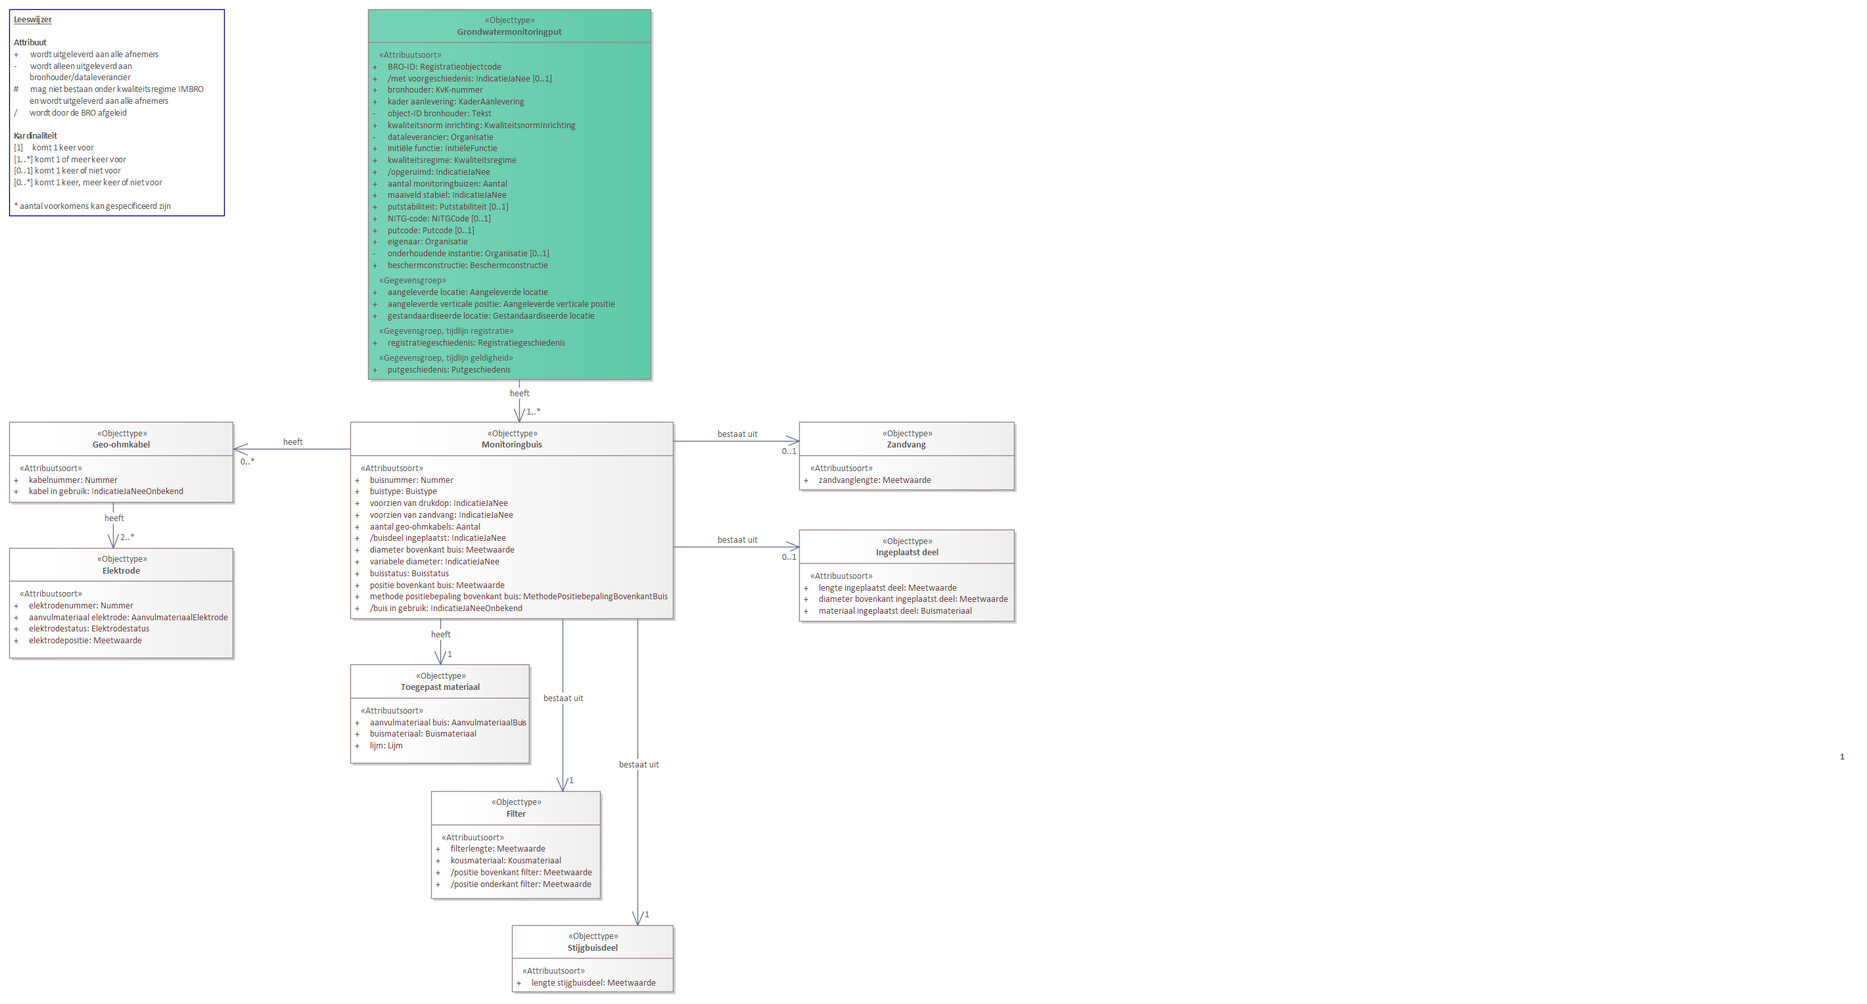
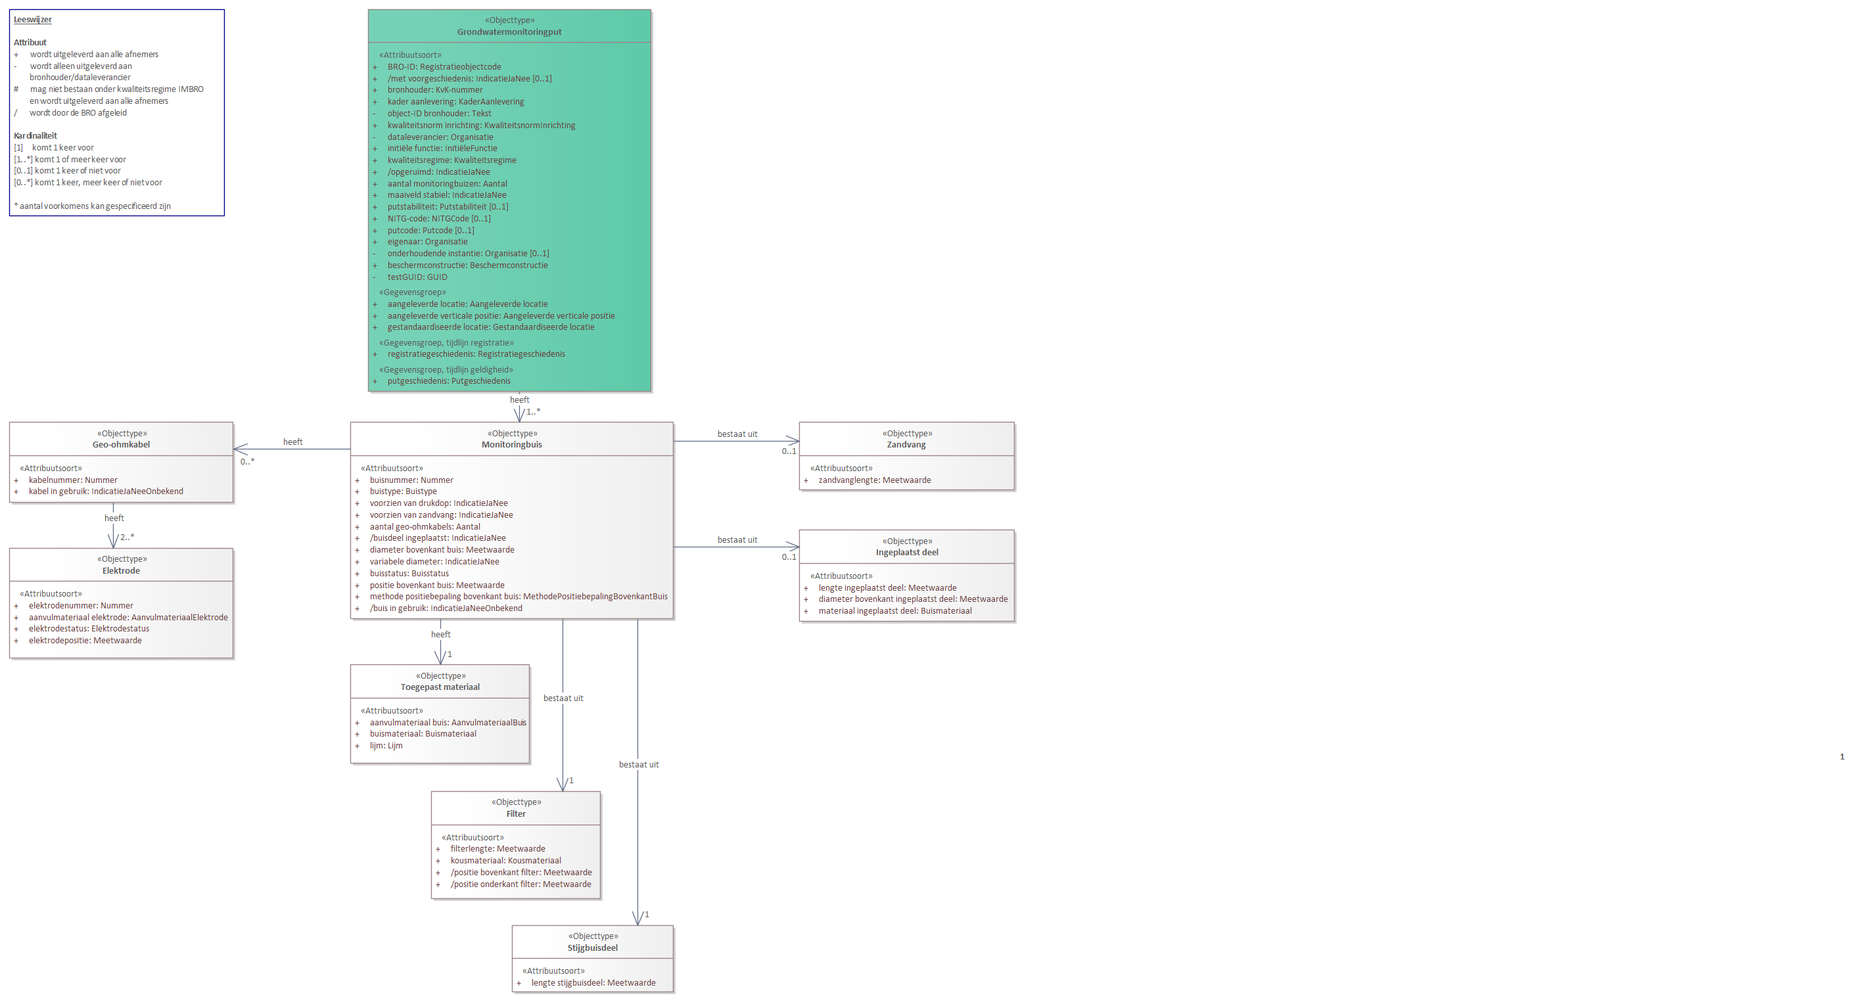
Conceptualmodel-GMWconceptueelMIM-1.1-1-20190910-20230627-054655

Changed region(s): [[0.1859, 0.2768, 0.3717, 0.3999]]

diff --git a/data/GMW-cat.msword.html b/data/GMW-cat.msword.html
@@ -15,7 +15,7 @@
    <body>
       <p>Conceptual model/GMW conceptueel MIM/20190910</p>
       <p>Imvertor: Nightly-build.8</p>
-      <p>Model release: Conceptualmodel-GMWconceptueelMIM-1.1-1-20190910-20230627-052740</p>
+      <p>Model release: Conceptualmodel-GMWconceptueelMIM-1.1-1-20190910-20230627-054655</p>
       <hr>
       <section>
          <h1>Artikel 1 Definitie van registratieobject, entiteiten en attributen</h1>
@@ -62,7 +62,7 @@
          <section>
             <h2>Het domeinmodel</h2>
             <section id="">
-               <div class="imageinfo overview"><img src="Images/EAID_E820AF53_7FB7_42e8_95C4_297D746526CE.png" usemap="#imagemap-EAID_E820AF53_7FB7_42e8_95C4_297D746526CE" alt="Diagram &#xA;                        &#xA;                     "><map name="imagemap-EAID_E820AF53_7FB7_42e8_95C4_297D746526CE"><area shape="rect" alt="Monitoringbuis" coords="533,642,1025,942" href="#graph_EAID_37A4505C_6C20_449b_A69D_5A3FD406F71F"><area shape="rect" alt="Toegepast materiaal" coords="533,1011,806,1162" href="#graph_EAID_991ABB1E_6DE8_44be_9F69_873394B4A09F"><area shape="rect" alt="Ingeplaatst deel" coords="1216,806,1544,946" href="#graph_EAID_2844EE68_F05D_489f_B88E_36D5EB750FB8"><area shape="rect" alt="Zandvang" coords="1216,642,1544,746" href="#graph_EAID_CE9B3282_A2CA_4584_B481_3AAD2ED94AA0"><area shape="rect" alt="Grondwatermonitoringput" coords="560,14,991,578" href="#graph_EAID_E20E6BE9_A59A_4c79_B908_1A41DD2640E0"><area shape="rect" alt="Geo-ohmkabel" coords="14,642,355,765" href="#graph_EAID_054D0A9D_812D_4cbd_8B7A_B33B81D5C6F5"><area shape="rect" alt="Filter" coords="656,1204,914,1368" href="#graph_EAID_84B999FC_3DE9_4f72_A0A7_99DDD6DB7CB7"><area shape="rect" alt="Elektrode" coords="14,834,355,1002" href="#graph_EAID_6ECD016F_FD12_4466_9B1C_75DBB79A89DC"><area shape="rect" alt="Stijgbuisdeel" coords="779,1408,1025,1510" href="#graph_EAID_3ECF9C95_1E37_4c37_A603_3EE701474DA1"></map><p><b>Grondwatermonitorput (GMW)</b></p>
+               <div class="imageinfo overview"><img src="Images/EAID_E820AF53_7FB7_42e8_95C4_297D746526CE.png" usemap="#imagemap-EAID_E820AF53_7FB7_42e8_95C4_297D746526CE" alt="Diagram &#xA;                        &#xA;                     "><map name="imagemap-EAID_E820AF53_7FB7_42e8_95C4_297D746526CE"><area shape="rect" alt="Monitoringbuis" coords="533,642,1025,942" href="#graph_EAID_37A4505C_6C20_449b_A69D_5A3FD406F71F"><area shape="rect" alt="Toegepast materiaal" coords="533,1011,806,1162" href="#graph_EAID_991ABB1E_6DE8_44be_9F69_873394B4A09F"><area shape="rect" alt="Ingeplaatst deel" coords="1216,806,1544,946" href="#graph_EAID_2844EE68_F05D_489f_B88E_36D5EB750FB8"><area shape="rect" alt="Zandvang" coords="1216,642,1544,746" href="#graph_EAID_CE9B3282_A2CA_4584_B481_3AAD2ED94AA0"><area shape="rect" alt="Grondwatermonitoringput" coords="560,14,991,596" href="#graph_EAID_E20E6BE9_A59A_4c79_B908_1A41DD2640E0"><area shape="rect" alt="Geo-ohmkabel" coords="14,642,355,765" href="#graph_EAID_054D0A9D_812D_4cbd_8B7A_B33B81D5C6F5"><area shape="rect" alt="Filter" coords="656,1204,914,1368" href="#graph_EAID_84B999FC_3DE9_4f72_A0A7_99DDD6DB7CB7"><area shape="rect" alt="Elektrode" coords="14,834,355,1002" href="#graph_EAID_6ECD016F_FD12_4466_9B1C_75DBB79A89DC"><area shape="rect" alt="Stijgbuisdeel" coords="779,1408,1025,1510" href="#graph_EAID_3ECF9C95_1E37_4c37_A603_3EE701474DA1"></map><p><b>Grondwatermonitorput (GMW)</b></p>
                </div>
             </section>
          </section>
@@ -70,7 +70,7 @@
             <h2>Entiteiten en attributen</h2>
             <section id=""><a class="anchor" id="graph_EAID_E20E6BE9_A59A_4c79_B908_1A41DD2640E0"></a><a class="anchor" id="global_class_Model_Grondwatermonitoringput"></a><section id="global_class_Model_Grondwatermonitoringput">
                   <h3>   Grondwatermonitoringput</h3>
-                  <div class="imageinfo "><img src="Images/EAID_E2F8B220_F519_4d40_95F0_A8B809943E17.png" usemap="#imagemap-EAID_E2F8B220_F519_4d40_95F0_A8B809943E17" alt="Diagram "><map name="imagemap-EAID_E2F8B220_F519_4d40_95F0_A8B809943E17"><area shape="rect" alt="Monitoringbuis" coords="533,671,724,739" href="#graph_EAID_37A4505C_6C20_449b_A69D_5A3FD406F71F"><area shape="rect" alt="Putgeschiedenis" coords="14,348,369,511" href="#graph_EAID_D0D74B8D_E548_436b_AA64_FCAB5991E69A"><area shape="rect" alt="Registratiegeschiedenis" coords="14,14,369,313" href="#graph_EAID_27831BC3_65A8_4d6f_87C4_022C311F27D8"><area shape="rect" alt="Gestandaardiseerde locatie" coords="888,372,1312,511" href="#graph_EAID_A80BEE92_2158_49ff_B798_714226D8D859"><area shape="rect" alt="Aangeleverde verticale positie" coords="888,175,1312,350" href="#graph_EAID_2C8853A0_8D02_41a9_921E_B037884C7493"><area shape="rect" alt="Aangeleverde locatie" coords="888,14,1312,153" href="#graph_EAID_64C91C32_27E4_441e_94AD_811E8F919127"><area shape="rect" alt="Grondwatermonitoringput" coords="437,14,827,600" href="#graph_EAID_E20E6BE9_A59A_4c79_B908_1A41DD2640E0"></map><p><b></b></p>
+                  <div class="imageinfo "><img src="Images/EAID_E2F8B220_F519_4d40_95F0_A8B809943E17.png" usemap="#imagemap-EAID_E2F8B220_F519_4d40_95F0_A8B809943E17" alt="Diagram "><map name="imagemap-EAID_E2F8B220_F519_4d40_95F0_A8B809943E17"><area shape="rect" alt="Monitoringbuis" coords="533,671,724,739" href="#graph_EAID_37A4505C_6C20_449b_A69D_5A3FD406F71F"><area shape="rect" alt="Putgeschiedenis" coords="14,348,369,511" href="#graph_EAID_D0D74B8D_E548_436b_AA64_FCAB5991E69A"><area shape="rect" alt="Registratiegeschiedenis" coords="14,14,369,313" href="#graph_EAID_27831BC3_65A8_4d6f_87C4_022C311F27D8"><area shape="rect" alt="Gestandaardiseerde locatie" coords="888,372,1312,511" href="#graph_EAID_A80BEE92_2158_49ff_B798_714226D8D859"><area shape="rect" alt="Aangeleverde verticale positie" coords="888,175,1312,350" href="#graph_EAID_2C8853A0_8D02_41a9_921E_B037884C7493"><area shape="rect" alt="Aangeleverde locatie" coords="888,14,1312,153" href="#graph_EAID_64C91C32_27E4_441e_94AD_811E8F919127"><area shape="rect" alt="Grondwatermonitoringput" coords="437,14,827,618" href="#graph_EAID_E20E6BE9_A59A_4c79_B908_1A41DD2640E0"></map><p><b></b></p>
                   </div>
                   <table style="width: 100%;">
                      <colgroup style="width: 30%;"></colgroup>
@@ -866,7 +866,7 @@
                               <th>Definitie</th>
                               <td>
                                  
-                                 <p>De identificatie die de put in de registratie DINO had.<br clear="none">
+                                 <p>TEST De identificatie die de put in de registratie DINO had.<br clear="none">
                                     </p>
                                  </td>
                            </tr>
@@ -1179,7 +1179,57 @@
                            </tr>
                         </tbody>
                      </table>
-                     </section><a class="anchor" id="detail_d71712e5659"></a><section id="detail_d71712e5659">
+                     </section><a class="anchor" id="detail_attribute_Model_Grondwatermonitoringput_testGUID"></a><section id="detail_attribute_Model_Grondwatermonitoringput_testGUID">
+                     <h4>  testGUID</h4>
+                     
+                     <table style="width: 100%;">
+                        <colgroup style="width: 30%;"></colgroup>
+                        <colgroup style="width: 70%;"></colgroup>
+                        <tbody>
+                           <tr>
+                              <th>Type gegeven</th>
+                              <td>Attribuut van Grondwatermonitoringput</td>
+                           </tr>
+                           <tr>
+                              <th>Definitie</th>
+                              <td>
+                                 
+                                 <p>Test GUID</p>
+                                 </td>
+                           </tr>
+                           <tr>
+                              <th>Juridische status</th>
+                              <td>Authentiek</td>
+                           </tr>
+                           <tr>
+                              <th>Kardinaliteit</th>
+                              <td>1</td>
+                           </tr>
+                           <tr>
+                              <th>Domein</th>
+                              <td></td>
+                           </tr>
+                           <tr>
+                              <th>&nbsp;&nbsp;Naam</th>
+                              <td>
+                                 GUID
+                                 </td>
+                           </tr>
+                           <tr>
+                              <th>&nbsp;&nbsp;Type</th>
+                              <td>Code</td>
+                           </tr>
+                           <tr>
+                              <th>&nbsp;&nbsp;Opbouw</th>
+                              <td>CCCCCCCC-CCCC-CCCC-CCCC-CCCCCCCCCCCC</td>
+                           </tr>
+                           <tr>
+                              <th>Materiële geschiedenis</th>
+                              <td>Nee</td>
+                           </tr>
+                        </tbody>
+                     </table>
+                     </section><a class="anchor" id="detail_d72297e5826"></a><section id="detail_d72297e5826">
                      <h4>  aangeleverde locatie</h4>
                      <table style="width: 100%;">
                         <colgroup style="width: 30%;"></colgroup>
@@ -1217,7 +1267,7 @@
                            </tr>
                         </tbody>
                      </table>
-                  </section><a class="anchor" id="detail_d71712e5844"></a><section id="detail_d71712e5844">
+                  </section><a class="anchor" id="detail_d72297e6011"></a><section id="detail_d72297e6011">
                      <h4>  aangeleverde verticale positie</h4>
                      <table style="width: 100%;">
                         <colgroup style="width: 30%;"></colgroup>
@@ -1254,7 +1304,7 @@
                            </tr>
                         </tbody>
                      </table>
-                  </section><a class="anchor" id="detail_d71712e6029"></a><section id="detail_d71712e6029">
+                  </section><a class="anchor" id="detail_d72297e6196"></a><section id="detail_d72297e6196">
                      <h4>  gestandaardiseerde locatie</h4>
                      <table style="width: 100%;">
                         <colgroup style="width: 30%;"></colgroup>
@@ -1292,7 +1342,7 @@
                            </tr>
                         </tbody>
                      </table>
-                  </section><a class="anchor" id="detail_d71712e6214"></a><section id="detail_d71712e6214">
+                  </section><a class="anchor" id="detail_d72297e6381"></a><section id="detail_d72297e6381">
                      <h4>  registratiegeschiedenis</h4>
                      <table style="width: 100%;">
                         <colgroup style="width: 30%;"></colgroup>
@@ -1329,7 +1379,7 @@
                            </tr>
                         </tbody>
                      </table>
-                  </section><a class="anchor" id="detail_d71712e6399"></a><section id="detail_d71712e6399">
+                  </section><a class="anchor" id="detail_d72297e6566"></a><section id="detail_d72297e6566">
                      <h4>  putgeschiedenis</h4>
                      <table style="width: 100%;">
                         <colgroup style="width: 30%;"></colgroup>
@@ -2200,7 +2250,7 @@
                            </tr>
                         </tbody>
                      </table>
-                     </section><a class="anchor" id="detail_d71712e12409"></a><section id="detail_d71712e12409">
+                     </section><a class="anchor" id="detail_d72297e12576"></a><section id="detail_d72297e12576">
                      <h4>  tussentijdse gebeurtenis</h4>
                      <table style="width: 100%;">
                         <colgroup style="width: 30%;"></colgroup>

diff --git a/data/GMW-cat.respec.html b/data/GMW-cat.respec.html
@@ -40,13 +40,13 @@
       </section>
    <section id="">
       <h2>Het domeinmodel   </h2>
-      <div class="imageinfo overview"><img src="data/Images/EAID_E820AF53_7FB7_42e8_95C4_297D746526CE.png" usemap="#imagemap-EAID_E820AF53_7FB7_42e8_95C4_297D746526CE" alt="Diagram &#xA;                        &#xA;                     "><map name="imagemap-EAID_E820AF53_7FB7_42e8_95C4_297D746526CE"><area shape="rect" alt="Monitoringbuis" coords="533,642,1025,942" href="#graph_EAID_37A4505C_6C20_449b_A69D_5A3FD406F71F"><area shape="rect" alt="Toegepast materiaal" coords="533,1011,806,1162" href="#graph_EAID_991ABB1E_6DE8_44be_9F69_873394B4A09F"><area shape="rect" alt="Ingeplaatst deel" coords="1216,806,1544,946" href="#graph_EAID_2844EE68_F05D_489f_B88E_36D5EB750FB8"><area shape="rect" alt="Zandvang" coords="1216,642,1544,746" href="#graph_EAID_CE9B3282_A2CA_4584_B481_3AAD2ED94AA0"><area shape="rect" alt="Grondwatermonitoringput" coords="560,14,991,578" href="#graph_EAID_E20E6BE9_A59A_4c79_B908_1A41DD2640E0"><area shape="rect" alt="Geo-ohmkabel" coords="14,642,355,765" href="#graph_EAID_054D0A9D_812D_4cbd_8B7A_B33B81D5C6F5"><area shape="rect" alt="Filter" coords="656,1204,914,1368" href="#graph_EAID_84B999FC_3DE9_4f72_A0A7_99DDD6DB7CB7"><area shape="rect" alt="Elektrode" coords="14,834,355,1002" href="#graph_EAID_6ECD016F_FD12_4466_9B1C_75DBB79A89DC"><area shape="rect" alt="Stijgbuisdeel" coords="779,1408,1025,1510" href="#graph_EAID_3ECF9C95_1E37_4c37_A603_3EE701474DA1"></map><p><b>Grondwatermonitorput (GMW)</b></p>
+      <div class="imageinfo overview"><img src="data/Images/EAID_E820AF53_7FB7_42e8_95C4_297D746526CE.png" usemap="#imagemap-EAID_E820AF53_7FB7_42e8_95C4_297D746526CE" alt="Diagram &#xA;                        &#xA;                     "><map name="imagemap-EAID_E820AF53_7FB7_42e8_95C4_297D746526CE"><area shape="rect" alt="Monitoringbuis" coords="533,642,1025,942" href="#graph_EAID_37A4505C_6C20_449b_A69D_5A3FD406F71F"><area shape="rect" alt="Toegepast materiaal" coords="533,1011,806,1162" href="#graph_EAID_991ABB1E_6DE8_44be_9F69_873394B4A09F"><area shape="rect" alt="Ingeplaatst deel" coords="1216,806,1544,946" href="#graph_EAID_2844EE68_F05D_489f_B88E_36D5EB750FB8"><area shape="rect" alt="Zandvang" coords="1216,642,1544,746" href="#graph_EAID_CE9B3282_A2CA_4584_B481_3AAD2ED94AA0"><area shape="rect" alt="Grondwatermonitoringput" coords="560,14,991,596" href="#graph_EAID_E20E6BE9_A59A_4c79_B908_1A41DD2640E0"><area shape="rect" alt="Geo-ohmkabel" coords="14,642,355,765" href="#graph_EAID_054D0A9D_812D_4cbd_8B7A_B33B81D5C6F5"><area shape="rect" alt="Filter" coords="656,1204,914,1368" href="#graph_EAID_84B999FC_3DE9_4f72_A0A7_99DDD6DB7CB7"><area shape="rect" alt="Elektrode" coords="14,834,355,1002" href="#graph_EAID_6ECD016F_FD12_4466_9B1C_75DBB79A89DC"><area shape="rect" alt="Stijgbuisdeel" coords="779,1408,1025,1510" href="#graph_EAID_3ECF9C95_1E37_4c37_A603_3EE701474DA1"></map><p><b>Grondwatermonitorput (GMW)</b></p>
       </div>
    </section>
    <section id="">
       <h2>Entiteittypen en attributen   </h2><a class="anchor" id="graph_EAID_E20E6BE9_A59A_4c79_B908_1A41DD2640E0"></a><a class="anchor" id="global_class_Model_Grondwatermonitoringput"></a><section id="global_class_Model_Grondwatermonitoringput">
          <h3>   Grondwatermonitoringput</h3>
-         <div class="imageinfo "><img src="data/Images/EAID_E2F8B220_F519_4d40_95F0_A8B809943E17.png" usemap="#imagemap-EAID_E2F8B220_F519_4d40_95F0_A8B809943E17" alt="Diagram "><map name="imagemap-EAID_E2F8B220_F519_4d40_95F0_A8B809943E17"><area shape="rect" alt="Monitoringbuis" coords="533,671,724,739" href="#graph_EAID_37A4505C_6C20_449b_A69D_5A3FD406F71F"><area shape="rect" alt="Putgeschiedenis" coords="14,348,369,511" href="#graph_EAID_D0D74B8D_E548_436b_AA64_FCAB5991E69A"><area shape="rect" alt="Registratiegeschiedenis" coords="14,14,369,313" href="#graph_EAID_27831BC3_65A8_4d6f_87C4_022C311F27D8"><area shape="rect" alt="Gestandaardiseerde locatie" coords="888,372,1312,511" href="#graph_EAID_A80BEE92_2158_49ff_B798_714226D8D859"><area shape="rect" alt="Aangeleverde verticale positie" coords="888,175,1312,350" href="#graph_EAID_2C8853A0_8D02_41a9_921E_B037884C7493"><area shape="rect" alt="Aangeleverde locatie" coords="888,14,1312,153" href="#graph_EAID_64C91C32_27E4_441e_94AD_811E8F919127"><area shape="rect" alt="Grondwatermonitoringput" coords="437,14,827,600" href="#graph_EAID_E20E6BE9_A59A_4c79_B908_1A41DD2640E0"></map><p><b></b></p>
+         <div class="imageinfo "><img src="data/Images/EAID_E2F8B220_F519_4d40_95F0_A8B809943E17.png" usemap="#imagemap-EAID_E2F8B220_F519_4d40_95F0_A8B809943E17" alt="Diagram "><map name="imagemap-EAID_E2F8B220_F519_4d40_95F0_A8B809943E17"><area shape="rect" alt="Monitoringbuis" coords="533,671,724,739" href="#graph_EAID_37A4505C_6C20_449b_A69D_5A3FD406F71F"><area shape="rect" alt="Putgeschiedenis" coords="14,348,369,511" href="#graph_EAID_D0D74B8D_E548_436b_AA64_FCAB5991E69A"><area shape="rect" alt="Registratiegeschiedenis" coords="14,14,369,313" href="#graph_EAID_27831BC3_65A8_4d6f_87C4_022C311F27D8"><area shape="rect" alt="Gestandaardiseerde locatie" coords="888,372,1312,511" href="#graph_EAID_A80BEE92_2158_49ff_B798_714226D8D859"><area shape="rect" alt="Aangeleverde verticale positie" coords="888,175,1312,350" href="#graph_EAID_2C8853A0_8D02_41a9_921E_B037884C7493"><area shape="rect" alt="Aangeleverde locatie" coords="888,14,1312,153" href="#graph_EAID_64C91C32_27E4_441e_94AD_811E8F919127"><area shape="rect" alt="Grondwatermonitoringput" coords="437,14,827,618" href="#graph_EAID_E20E6BE9_A59A_4c79_B908_1A41DD2640E0"></map><p><b></b></p>
          </div>
          <table style="width: 100%;">
             <colgroup style="width: 30%;"></colgroup>
@@ -842,7 +842,7 @@
                      <th>Definitie</th>
                      <td>
                         
-                        <p>De identificatie die de put in de registratie DINO had.<br clear="none">
+                        <p>TEST De identificatie die de put in de registratie DINO had.<br clear="none">
                            </p>
                         </td>
                   </tr>
@@ -1155,7 +1155,57 @@
                   </tr>
                </tbody>
             </table>
-            </section><a class="anchor" id="detail_d71712e5659"></a><section id="detail_d71712e5659">
+            </section><a class="anchor" id="detail_attribute_Model_Grondwatermonitoringput_testGUID"></a><section id="detail_attribute_Model_Grondwatermonitoringput_testGUID">
+            <h4>  testGUID</h4>
+            
+            <table style="width: 100%;">
+               <colgroup style="width: 30%;"></colgroup>
+               <colgroup style="width: 70%;"></colgroup>
+               <tbody>
+                  <tr>
+                     <th>Type gegeven</th>
+                     <td>Attribuut van Grondwatermonitoringput</td>
+                  </tr>
+                  <tr>
+                     <th>Definitie</th>
+                     <td>
+                        
+                        <p>Test GUID</p>
+                        </td>
+                  </tr>
+                  <tr>
+                     <th>Juridische status</th>
+                     <td>Authentiek</td>
+                  </tr>
+                  <tr>
+                     <th>Kardinaliteit</th>
+                     <td>1</td>
+                  </tr>
+                  <tr>
+                     <th>Domein</th>
+                     <td></td>
+                  </tr>
+                  <tr>
+                     <th>&nbsp;&nbsp;Naam</th>
+                     <td>
+                        GUID
+                        </td>
+                  </tr>
+                  <tr>
+                     <th>&nbsp;&nbsp;Type</th>
+                     <td>Code</td>
+                  </tr>
+                  <tr>
+                     <th>&nbsp;&nbsp;Opbouw</th>
+                     <td>CCCCCCCC-CCCC-CCCC-CCCC-CCCCCCCCCCCC</td>
+                  </tr>
+                  <tr>
+                     <th>Materiële geschiedenis</th>
+                     <td>Nee</td>
+                  </tr>
+               </tbody>
+            </table>
+            </section><a class="anchor" id="detail_d72297e5826"></a><section id="detail_d72297e5826">
             <h4>  aangeleverde locatie</h4>
             <table style="width: 100%;">
                <colgroup style="width: 30%;"></colgroup>
@@ -1193,7 +1243,7 @@
                   </tr>
                </tbody>
             </table>
-         </section><a class="anchor" id="detail_d71712e5844"></a><section id="detail_d71712e5844">
+         </section><a class="anchor" id="detail_d72297e6011"></a><section id="detail_d72297e6011">
             <h4>  aangeleverde verticale positie</h4>
             <table style="width: 100%;">
                <colgroup style="width: 30%;"></colgroup>
@@ -1230,7 +1280,7 @@
                   </tr>
                </tbody>
             </table>
-         </section><a class="anchor" id="detail_d71712e6029"></a><section id="detail_d71712e6029">
+         </section><a class="anchor" id="detail_d72297e6196"></a><section id="detail_d72297e6196">
             <h4>  gestandaardiseerde locatie</h4>
             <table style="width: 100%;">
                <colgroup style="width: 30%;"></colgroup>
@@ -1268,7 +1318,7 @@
                   </tr>
                </tbody>
             </table>
-         </section><a class="anchor" id="detail_d71712e6214"></a><section id="detail_d71712e6214">
+         </section><a class="anchor" id="detail_d72297e6381"></a><section id="detail_d72297e6381">
             <h4>  registratiegeschiedenis</h4>
             <table style="width: 100%;">
                <colgroup style="width: 30%;"></colgroup>
@@ -1305,7 +1355,7 @@
                   </tr>
                </tbody>
             </table>
-         </section><a class="anchor" id="detail_d71712e6399"></a><section id="detail_d71712e6399">
+         </section><a class="anchor" id="detail_d72297e6566"></a><section id="detail_d72297e6566">
             <h4>  putgeschiedenis</h4>
             <table style="width: 100%;">
                <colgroup style="width: 30%;"></colgroup>
@@ -2176,7 +2226,7 @@
                   </tr>
                </tbody>
             </table>
-            </section><a class="anchor" id="detail_d71712e12409"></a><section id="detail_d71712e12409">
+            </section><a class="anchor" id="detail_d72297e12576"></a><section id="detail_d72297e12576">
             <h4>  tussentijdse gebeurtenis</h4>
             <table style="width: 100%;">
                <colgroup style="width: 30%;"></colgroup>
